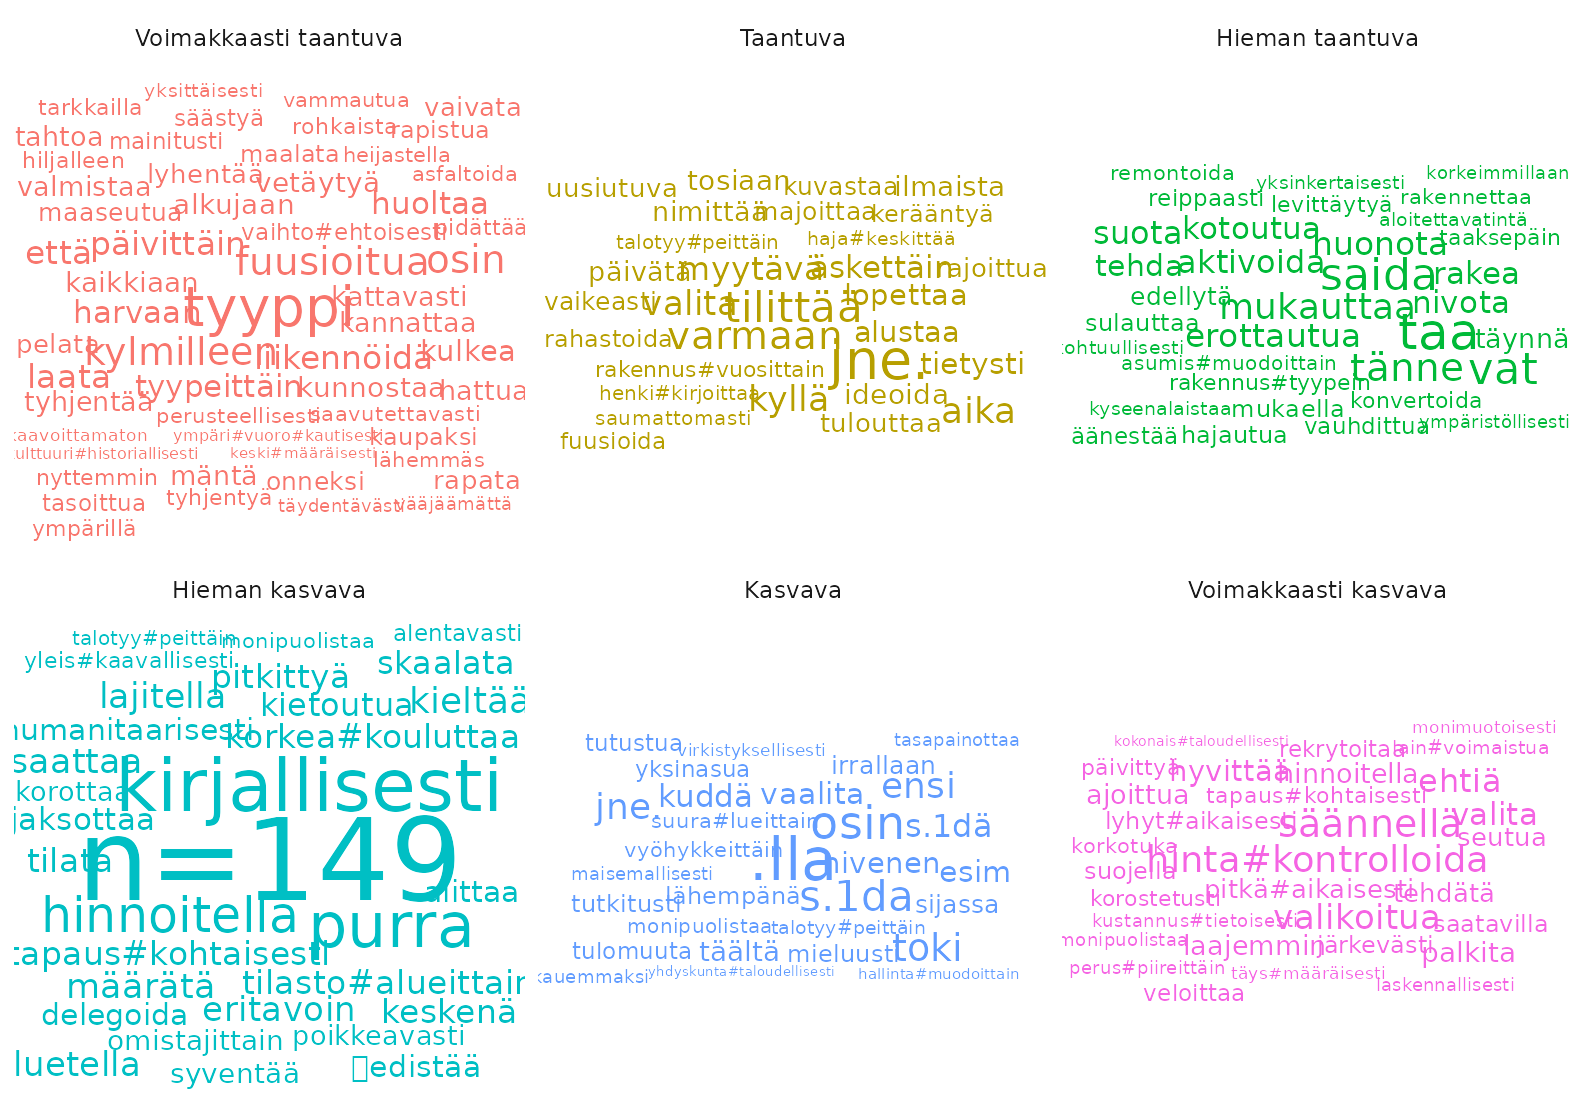
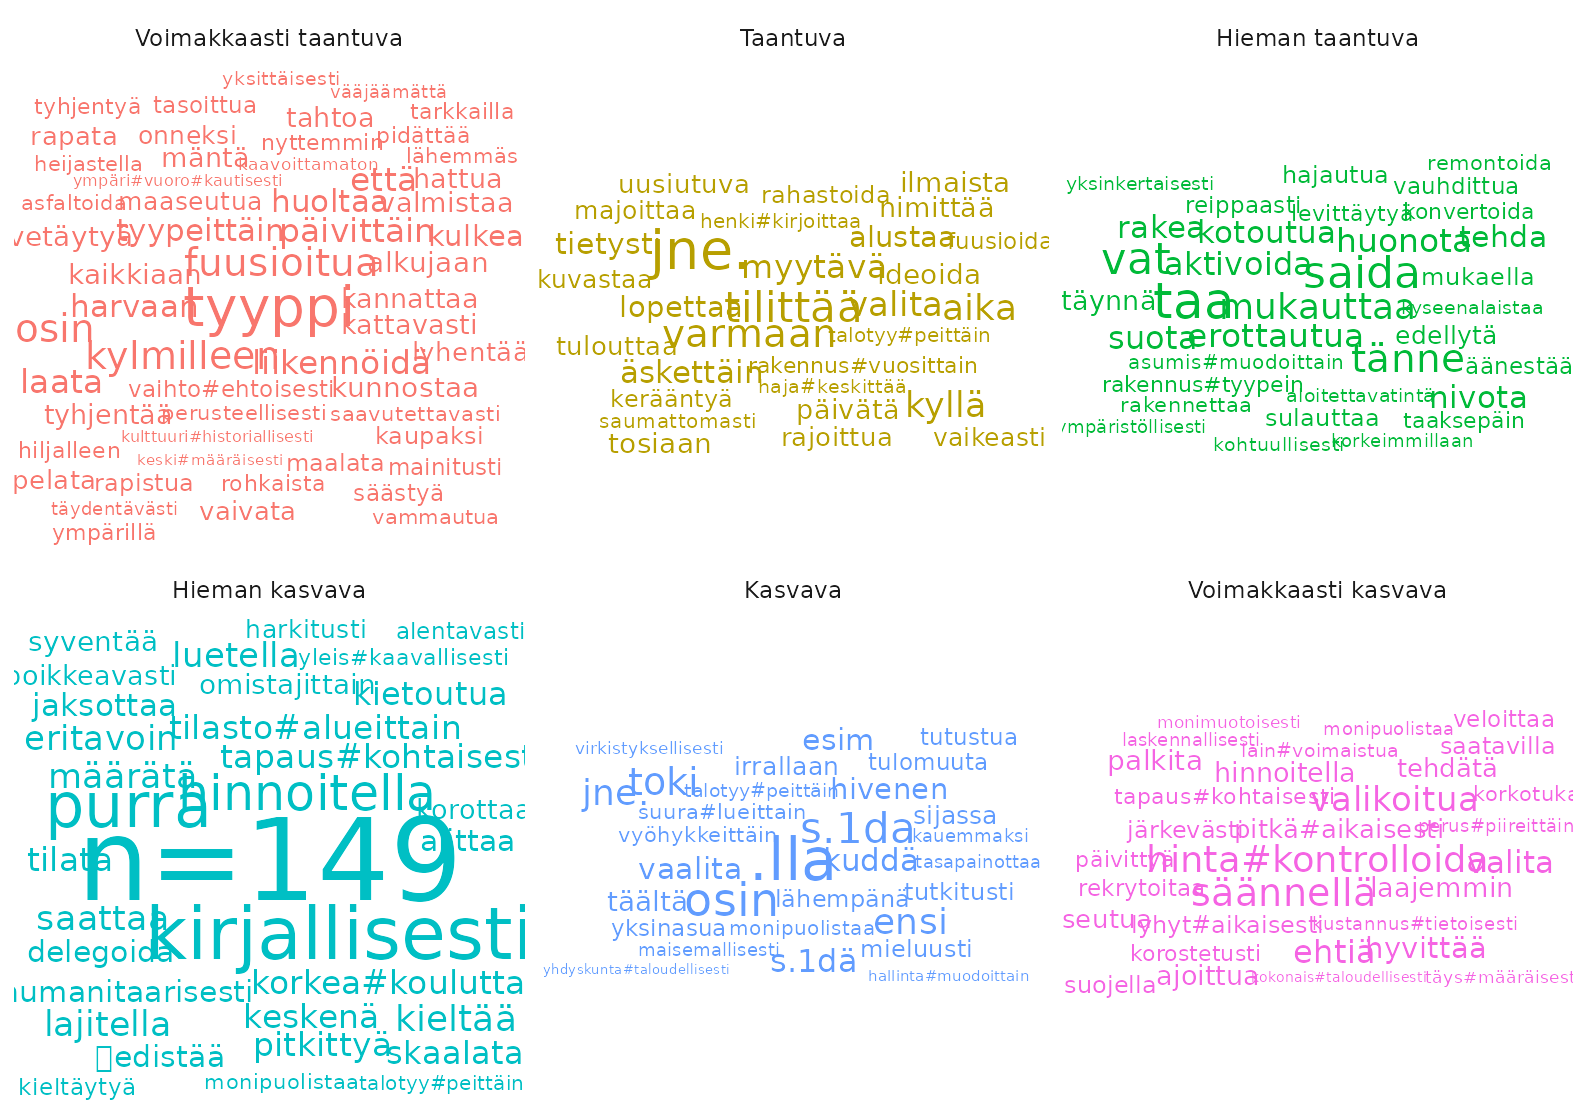
Deploying to gh-pages from @ StranMax/rfintext@cf7a15c8f20bb3594d382cbc9c6519aad5753288 🚀

Changed region(s): [[0.0, 0.0608, 0.988, 0.4861], [0.0, 0.5469, 0.6484, 1.0], [0.6793, 0.6381, 0.988, 0.9115]]

diff --git a/articles/Document-term-matrix.html b/articles/Document-term-matrix.html
@@ -95,28 +95,33 @@
 <span><span class="kw"><a href="https://rdrr.io/r/base/library.html" class="external-link">library</a></span><span class="op">(</span><span class="va"><a href="https://dplyr.tidyverse.org" class="external-link">dplyr</a></span><span class="op">)</span></span>
 <span><span class="kw"><a href="https://rdrr.io/r/base/library.html" class="external-link">library</a></span><span class="op">(</span><span class="va"><a href="https://readr.tidyverse.org" class="external-link">readr</a></span><span class="op">)</span></span></code></pre></div>
 <div class="sourceCode" id="cb2"><pre class="downlit sourceCode r">
-<code class="sourceCode R"><span><span class="va">lemmas</span> <span class="op">&lt;-</span> <span class="va">aspol</span> <span class="op">|&gt;</span></span>
-<span>  <span class="fu"><a href="https://dplyr.tidyverse.org/reference/filter.html" class="external-link">filter</a></span><span class="op">(</span><span class="va">UPOSTAG</span> <span class="op"><a href="https://rdrr.io/r/base/match.html" class="external-link">%in%</a></span> <span class="fu"><a href="https://rdrr.io/r/base/c.html" class="external-link">c</a></span><span class="op">(</span><span class="st">"NOUN"</span>, <span class="st">"VERB"</span>, <span class="st">"ADJ"</span><span class="op">)</span>, </span>
-<span>         <span class="fu"><a href="https://rdrr.io/r/base/nchar.html" class="external-link">nchar</a></span><span class="op">(</span><span class="va">LEMMA</span><span class="op">)</span> <span class="op">&gt;</span> <span class="fl">1</span>,</span>
-<span>         <span class="op">!</span><span class="fu"><a href="https://stringr.tidyverse.org/reference/str_detect.html" class="external-link">str_detect</a></span><span class="op">(</span><span class="va">LEMMA</span>, <span class="st">"[0-9]"</span><span class="op">)</span>, </span>
-<span>         <span class="op">!</span><span class="va">kunta</span> <span class="op"><a href="https://rdrr.io/r/base/match.html" class="external-link">%in%</a></span> <span class="fu"><a href="https://rdrr.io/r/base/c.html" class="external-link">c</a></span><span class="op">(</span><span class="st">"Enontekiö"</span>, <span class="st">"Salla"</span>, <span class="st">"Hattula"</span><span class="op">)</span><span class="op">)</span> <span class="op">|&gt;</span>  <span class="co"># OCR docs problematic</span></span>
-<span>  <span class="fu"><a href="https://dplyr.tidyverse.org/reference/count.html" class="external-link">count</a></span><span class="op">(</span><span class="va">kunta</span>, <span class="va">LEMMA</span>, <span class="va">UPOSTAG</span>, name <span class="op">=</span> <span class="st">"dtf"</span><span class="op">)</span> <span class="op">|&gt;</span></span>
-<span>  <span class="co"># filter(dtf &gt; 1) |&gt;</span></span>
-<span>  <span class="fu"><a href="https://rdrr.io/pkg/tidytext/man/bind_tf_idf.html" class="external-link">bind_tf_idf</a></span><span class="op">(</span><span class="va">LEMMA</span>, <span class="va">kunta</span>, <span class="va">dtf</span><span class="op">)</span></span>
-<span><span class="co">#&gt; Warning: A value for tf_idf is negative:</span></span>
-<span><span class="co">#&gt;  Input should have exactly one row per document-term combination.</span></span></code></pre></div>
+<code class="sourceCode R"><span><span class="va">aspol_filtered</span> <span class="op">&lt;-</span> <span class="va">aspol</span> <span class="op">|&gt;</span> </span>
+<span>  <span class="fu"><a href="https://dplyr.tidyverse.org/reference/count.html" class="external-link">add_count</a></span><span class="op">(</span><span class="va">kunta</span>, <span class="va">LEMMA</span>, name <span class="op">=</span> <span class="st">"kunta_lemma"</span><span class="op">)</span> <span class="op">|&gt;</span> </span>
+<span>  <span class="fu"><a href="https://dplyr.tidyverse.org/reference/count.html" class="external-link">add_count</a></span><span class="op">(</span><span class="va">LEMMA</span>, name <span class="op">=</span> <span class="st">"lemma"</span><span class="op">)</span> <span class="op">|&gt;</span> </span>
+<span>  <span class="fu"><a href="https://dplyr.tidyverse.org/reference/filter.html" class="external-link">filter</a></span><span class="op">(</span></span>
+<span>    <span class="va">lemma</span> <span class="op">&gt;</span> <span class="va">kunta_lemma</span>,  <span class="co"># Termi pitää esiintyä vähintään kahdessa eri dokumentissa</span></span>
+<span>         <span class="va">lemma</span> <span class="op">&gt;</span> <span class="fl">10</span>,  <span class="co"># Pitää esiintyä yhteensä yli 10 kertaa (voi olla ehkä isompikin)</span></span>
+<span>         <span class="va">UPOSTAG</span> <span class="op"><a href="https://rdrr.io/r/base/match.html" class="external-link">%in%</a></span> <span class="fu"><a href="https://rdrr.io/r/base/c.html" class="external-link">c</a></span><span class="op">(</span><span class="st">"NOUN"</span>, <span class="st">"VERB"</span>, <span class="st">"ADJ"</span><span class="op">)</span>,  <span class="co"># Substantiivit, verbit ja adjektiivit</span></span>
+<span>         <span class="fu"><a href="https://rdrr.io/r/base/nchar.html" class="external-link">nchar</a></span><span class="op">(</span><span class="va">FORM</span><span class="op">)</span> <span class="op">&gt;</span> <span class="fl">1</span>,  <span class="co"># Yksittäiset merkit pois</span></span>
+<span>         <span class="fu"><a href="https://rdrr.io/r/base/nchar.html" class="external-link">nchar</a></span><span class="op">(</span><span class="va">LEMMA</span><span class="op">)</span> <span class="op">&gt;</span> <span class="fl">1</span>,  <span class="co"># Yksittäiset merkit pois</span></span>
+<span>         <span class="op">!</span><span class="fu"><a href="https://stringr.tidyverse.org/reference/str_detect.html" class="external-link">str_detect</a></span><span class="op">(</span><span class="va">FEATS</span>, <span class="st">"Abbr=Yes|NumType=Ord"</span><span class="op">)</span>  <span class="co"># Lyhenteet ja järjestysnumerot (adj) pois</span></span>
+<span>         <span class="op">)</span>  </span>
+<span></span>
+<span><span class="va">lemma</span> <span class="op">&lt;-</span> <span class="va">aspol_filtered</span> <span class="op">|&gt;</span></span>
+<span>  <span class="fu"><a href="https://dplyr.tidyverse.org/reference/count.html" class="external-link">count</a></span><span class="op">(</span><span class="va">kunta</span>, <span class="va">LEMMA</span>, name <span class="op">=</span> <span class="st">"dtf"</span><span class="op">)</span> <span class="op">|&gt;</span></span>
+<span>  <span class="fu"><a href="https://rdrr.io/pkg/tidytext/man/bind_tf_idf.html" class="external-link">bind_tf_idf</a></span><span class="op">(</span><span class="va">LEMMA</span>, <span class="va">kunta</span>, <span class="va">dtf</span><span class="op">)</span></span></code></pre></div>
 <p>Let’s create variable <code>y</code> we are trying to explain with
 word frequencies.</p>
 <div class="sourceCode" id="cb3"><pre class="downlit sourceCode r">
 <code class="sourceCode R"><span><span class="va">taantuvat</span> <span class="op">&lt;-</span> <span class="va">taantuvat</span></span>
 <span><span class="va">y</span> <span class="op">&lt;-</span> <span class="va">taantuvat</span><span class="op">[</span><span class="fu"><a href="https://rdrr.io/r/base/c.html" class="external-link">c</a></span><span class="op">(</span><span class="st">"kunta"</span>, <span class="st">"suht_muutos_2010_2022"</span><span class="op">)</span><span class="op">]</span> <span class="op">|&gt;</span></span>
-<span>  <span class="fu"><a href="https://dplyr.tidyverse.org/reference/mutate-joins.html" class="external-link">inner_join</a></span><span class="op">(</span><span class="va">lemmas</span><span class="op">[</span><span class="fu"><a href="https://rdrr.io/r/base/c.html" class="external-link">c</a></span><span class="op">(</span><span class="st">"kunta"</span><span class="op">)</span><span class="op">]</span><span class="op">)</span> <span class="op">|&gt;</span></span>
+<span>  <span class="fu"><a href="https://dplyr.tidyverse.org/reference/mutate-joins.html" class="external-link">inner_join</a></span><span class="op">(</span><span class="va">lemma</span><span class="op">[</span><span class="fu"><a href="https://rdrr.io/r/base/c.html" class="external-link">c</a></span><span class="op">(</span><span class="st">"kunta"</span><span class="op">)</span><span class="op">]</span><span class="op">)</span> <span class="op">|&gt;</span></span>
 <span>  <span class="fu"><a href="https://dplyr.tidyverse.org/reference/group_by.html" class="external-link">group_by</a></span><span class="op">(</span><span class="va">kunta</span><span class="op">)</span> <span class="op">|&gt;</span></span>
 <span>  <span class="fu"><a href="https://dplyr.tidyverse.org/reference/slice.html" class="external-link">slice</a></span><span class="op">(</span><span class="fl">1</span><span class="op">)</span></span>
 <span><span class="co">#&gt; Joining with `by = join_by(kunta)`</span></span></code></pre></div>
 <p>We create data with only those docs we have y value</p>
 <div class="sourceCode" id="cb4"><pre class="downlit sourceCode r">
-<code class="sourceCode R"><span><span class="va">data</span> <span class="op">&lt;-</span> <span class="fu"><a href="https://dplyr.tidyverse.org/reference/mutate-joins.html" class="external-link">left_join</a></span><span class="op">(</span><span class="va">lemmas</span>, <span class="va">y</span><span class="op">)</span> <span class="op">|&gt;</span></span>
+<code class="sourceCode R"><span><span class="va">data</span> <span class="op">&lt;-</span> <span class="fu"><a href="https://dplyr.tidyverse.org/reference/mutate-joins.html" class="external-link">left_join</a></span><span class="op">(</span><span class="va">lemma</span>, <span class="va">y</span><span class="op">)</span> <span class="op">|&gt;</span></span>
 <span>  <span class="fu"><a href="https://dplyr.tidyverse.org/reference/filter.html" class="external-link">filter</a></span><span class="op">(</span><span class="op">!</span><span class="fu"><a href="https://rdrr.io/r/base/NA.html" class="external-link">is.na</a></span><span class="op">(</span><span class="va">LEMMA</span><span class="op">)</span>, <span class="op">!</span><span class="fu"><a href="https://rdrr.io/r/base/NA.html" class="external-link">is.na</a></span><span class="op">(</span><span class="va">suht_muutos_2010_2022</span><span class="op">)</span><span class="op">)</span> <span class="op">|&gt;</span></span>
 <span>  <span class="fu"><a href="https://dplyr.tidyverse.org/reference/select.html" class="external-link">select</a></span><span class="op">(</span><span class="va">kunta</span>, <span class="va">LEMMA</span>, <span class="va">dtf</span>, <span class="va">tf</span>, <span class="va">tf_idf</span>, <span class="va">suht_muutos_2010_2022</span><span class="op">)</span></span>
 <span><span class="co">#&gt; Joining with `by = join_by(kunta)`</span></span>
@@ -124,7 +129,8 @@ word frequencies.</p>
 <span><span class="fu"><a href="https://rdrr.io/r/base/stopifnot.html" class="external-link">stopifnot</a></span><span class="op">(</span><span class="va">y</span><span class="op">$</span><span class="va">kunta_nimi</span> <span class="op">==</span> <span class="fu"><a href="https://rdrr.io/r/base/unique.html" class="external-link">unique</a></span><span class="op">(</span><span class="va">data</span><span class="op">$</span><span class="va">kunta</span><span class="op">)</span><span class="op">)</span></span>
 <span><span class="co">#&gt; Warning: Unknown or uninitialised column: `kunta_nimi`.</span></span></code></pre></div>
 <div class="sourceCode" id="cb5"><pre class="downlit sourceCode r">
-<code class="sourceCode R"><span><span class="va">tf</span> <span class="op">&lt;-</span> <span class="fu"><a href="https://rdrr.io/pkg/tidytext/man/document_term_casters.html" class="external-link">cast_dfm</a></span><span class="op">(</span>data <span class="op">=</span> <span class="va">data</span>, document <span class="op">=</span> <span class="va">kunta</span>, term <span class="op">=</span> <span class="va">LEMMA</span>, value <span class="op">=</span> <span class="va">tf</span><span class="op">)</span></span>
+<code class="sourceCode R"><span><span class="va">n</span> <span class="op">&lt;-</span> <span class="fu"><a href="https://rdrr.io/pkg/tidytext/man/document_term_casters.html" class="external-link">cast_dfm</a></span><span class="op">(</span>data <span class="op">=</span> <span class="va">data</span>, document <span class="op">=</span> <span class="va">kunta</span>, term <span class="op">=</span> <span class="va">LEMMA</span>, value <span class="op">=</span> <span class="va">dtf</span><span class="op">)</span> </span>
+<span><span class="va">tf</span> <span class="op">&lt;-</span> <span class="fu"><a href="https://rdrr.io/pkg/tidytext/man/document_term_casters.html" class="external-link">cast_dfm</a></span><span class="op">(</span>data <span class="op">=</span> <span class="va">data</span>, document <span class="op">=</span> <span class="va">kunta</span>, term <span class="op">=</span> <span class="va">LEMMA</span>, value <span class="op">=</span> <span class="va">tf</span><span class="op">)</span></span>
 <span><span class="va">tf_idf</span> <span class="op">&lt;-</span> <span class="fu"><a href="https://rdrr.io/pkg/tidytext/man/document_term_casters.html" class="external-link">cast_dfm</a></span><span class="op">(</span>data <span class="op">=</span> <span class="va">data</span>, document <span class="op">=</span> <span class="va">kunta</span>, term <span class="op">=</span> <span class="va">LEMMA</span>, value <span class="op">=</span> <span class="va">tf_idf</span><span class="op">)</span></span></code></pre></div>
 <p>We save 4 objects:</p>
 <ol style="list-style-type: decimal">
@@ -154,7 +160,8 @@ word frequencies.</p>
 <span>  <span class="fu"><a href="https://rdrr.io/r/base/unlink.html" class="external-link">unlink</a></span><span class="op">(</span><span class="va">dir_out</span><span class="op">)</span></span>
 <span><span class="op">}</span></span></code></pre></div>
 <div class="sourceCode" id="cb7"><pre class="downlit sourceCode r">
-<code class="sourceCode R"><span><span class="co"># save_data(tf, y, dir_out = "C:/Users/maxs/Documents/data/aspol_scikit-learn/tf")</span></span>
+<code class="sourceCode R"><span><span class="co"># save_data(n, y, dir_out = "C:/Users/maxs/Documents/data/aspol_scikit-learn/n")</span></span>
+<span><span class="co"># save_data(tf, y, dir_out = "C:/Users/maxs/Documents/data/aspol_scikit-learn/tf")</span></span>
 <span><span class="co"># save_data(tf_idf, y, dir_out = "C:/Users/maxs/Documents/data/aspol_scikit-learn/tf_idf")</span></span></code></pre></div>
   </main>
 </div>

diff --git a/articles/1-Asuntopoliittisten-ohjelmien-teko-kunnissa.html b/articles/1-Asuntopoliittisten-ohjelmien-teko-kunnissa.html
@@ -87,13 +87,6 @@
 <code class="sourceCode R"><span><span class="kw"><a href="https://rdrr.io/r/base/library.html" class="external-link">library</a></span><span class="op">(</span><span class="va"><a href="https://github.com/StranMax/rfintext" class="external-link">rfintext</a></span><span class="op">)</span></span>
 <span><span class="co"># install.packages(devtools)</span></span>
 <span><span class="fu">devtools</span><span class="fu">::</span><span class="fu"><a href="https://remotes.r-lib.org/reference/install_github.html" class="external-link">install_github</a></span><span class="op">(</span><span class="st">"StranMax/rfinstats"</span><span class="op">)</span></span>
-<span><span class="co">#&gt; <span style="color: #00BBBB;">──</span> <span style="color: #00BBBB;">R CMD build</span> <span style="color: #00BBBB;">─────────────────────────────────────────────────────────────────</span></span></span>
-<span><span class="co">#&gt; * checking for file ‘/tmp/RtmplNisi4/remotes1cd33dce1a38/StranMax-rfinstats-1a5123e/DESCRIPTION’ ... OK</span></span>
-<span><span class="co">#&gt; * preparing ‘rfinstats’:</span></span>
-<span><span class="co">#&gt; * checking DESCRIPTION meta-information ... OK</span></span>
-<span><span class="co">#&gt; * checking for LF line-endings in source and make files and shell scripts</span></span>
-<span><span class="co">#&gt; * checking for empty or unneeded directories</span></span>
-<span><span class="co">#&gt; * building ‘rfinstats_0.1.0.tar.gz’</span></span>
 <span><span class="kw"><a href="https://rdrr.io/r/base/library.html" class="external-link">library</a></span><span class="op">(</span><span class="va"><a href="https://github.com/StranMax/rfinstats" class="external-link">rfinstats</a></span><span class="op">)</span></span>
 <span><span class="kw"><a href="https://rdrr.io/r/base/library.html" class="external-link">library</a></span><span class="op">(</span><span class="va"><a href="https://r-spatial.github.io/sf/" class="external-link">sf</a></span><span class="op">)</span></span>
 <span><span class="kw"><a href="https://rdrr.io/r/base/library.html" class="external-link">library</a></span><span class="op">(</span><span class="va"><a href="https://dplyr.tidyverse.org" class="external-link">dplyr</a></span><span class="op">)</span></span>
